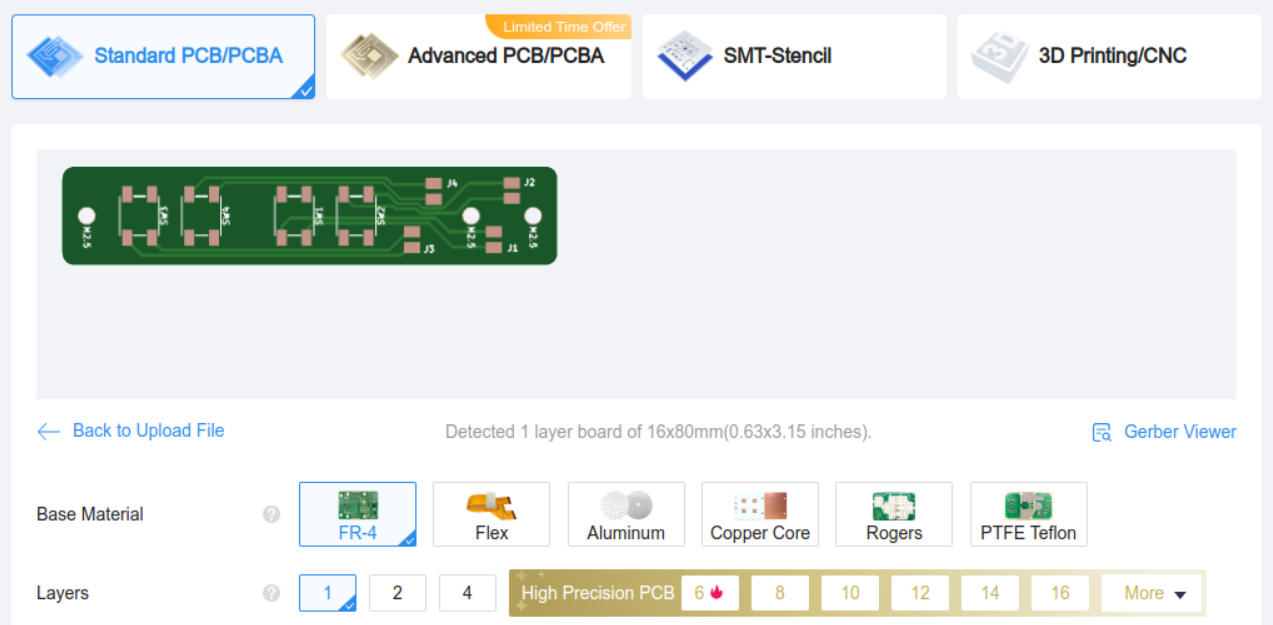
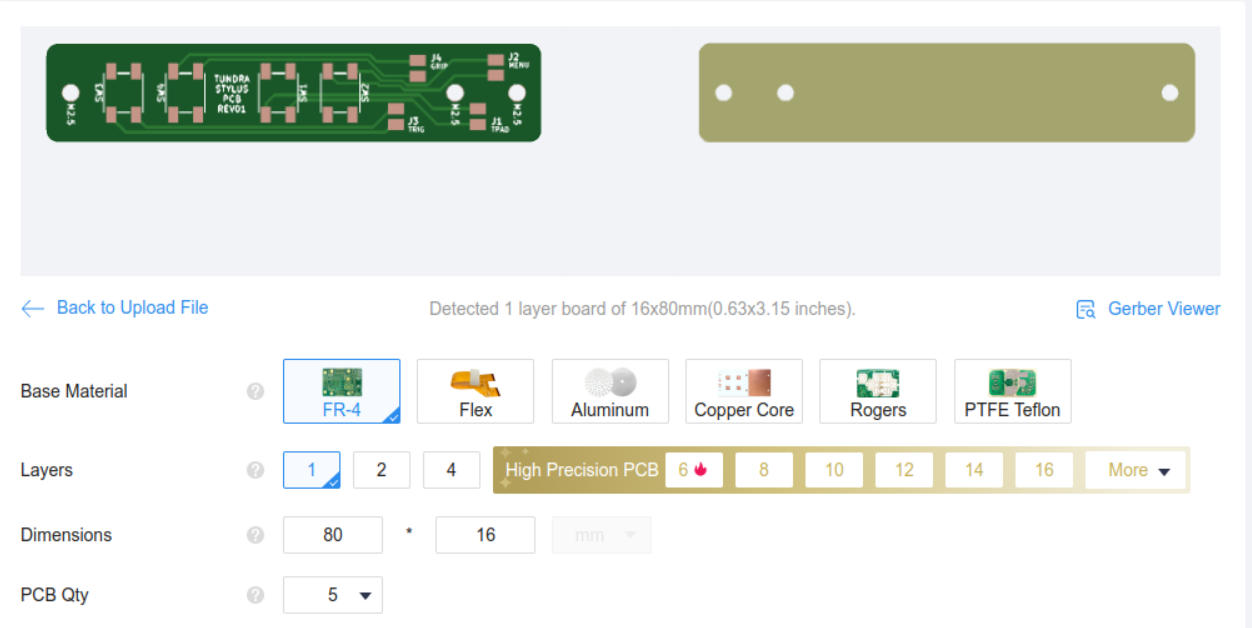
Update docs/PCB_PRODUCTION.md

diff --git a/docs/PCB_PRODUCTION.md b/docs/PCB_PRODUCTION.md
@@ -36,9 +36,19 @@ As for the milling process, CopperCAM software was used to calculate toolpaths i
 
 ### Manufacturing Online
 
-Gerber files for manufacturing a single-sided board for JLCPCB is included in [electronics/gerbers/jlcpcb](../electronics/gerbers/jlcpcb). Log into JLCPCB and upload the zip file. It should show up as in the image below. 
+Gerber files for manufacturing a single-sided board online is included in [electronics/gerbers/online](../electronics/gerbers/online). It has been tested with JLCPCB and PCBWay. It should show up as in the images below. 
 
 ![JLCPCB](../media/jlcpcb.jpg)
+
+![PcbWAY](../media/pcbway.jpg)
+
+As for the parameters, the following are most important.
+
+| Parameter | Value |
+| --- | --- |
+| Base Material | FR-4 |
+| Layers | 1 |
+| PCB Thickness | 1.6mm |
 
 Do not forget to order a SMT-Stencil if you want to use solder paste and reflow soldering. 
 
